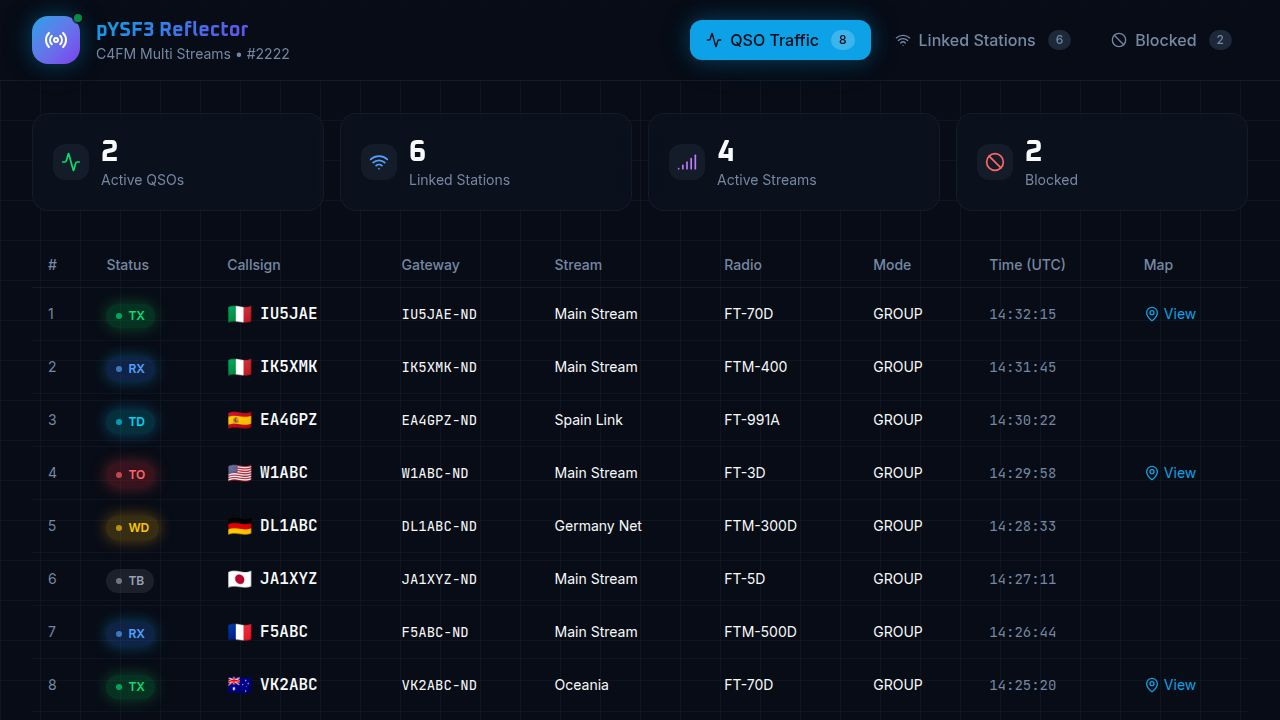
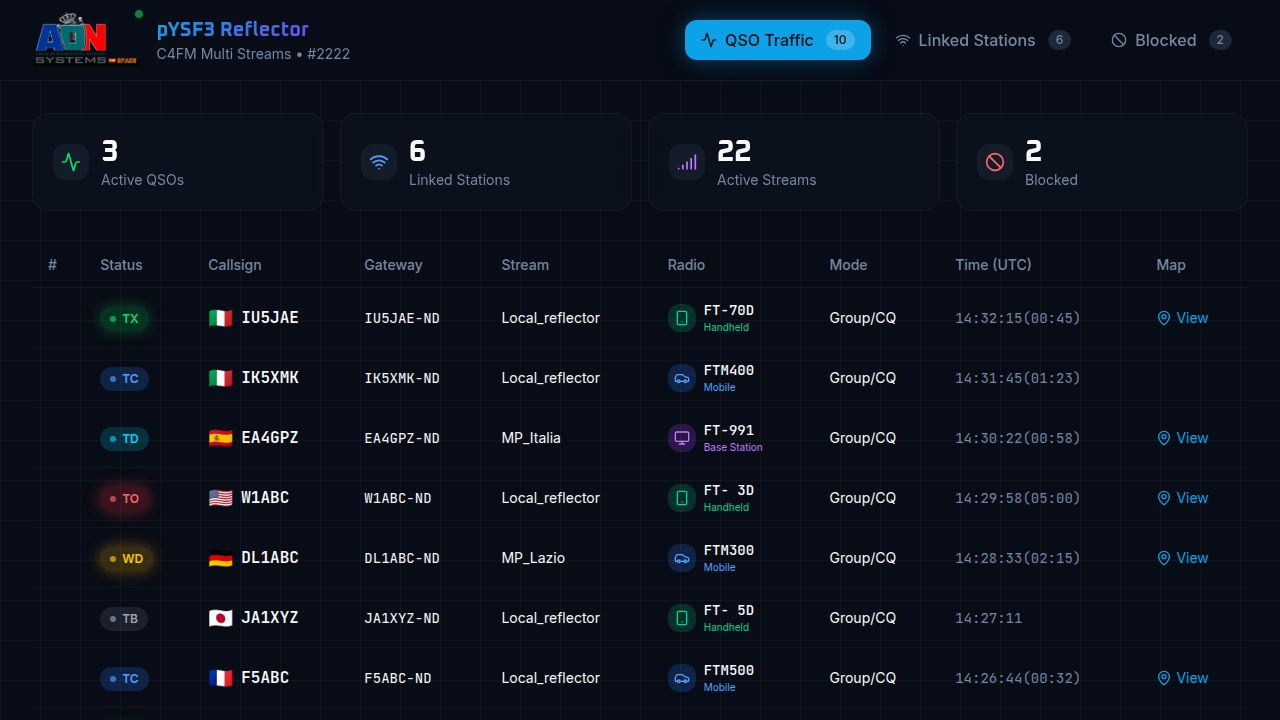
Update dashboard to match collector3.py data schema
Adjusted data interfaces and mock data in dashboard component to align with the schema defined in collector3.py, including changes to QSOStream, LinkedStation, and BlockedStation interfaces, and introducing the ReflectorInfo interface.

Replit-Commit-Author: Agent
Replit-Commit-Session-Id: 849af26a-ff50-427c-92cf-bc35f4036844
Replit-Commit-Checkpoint-Type: full_checkpoint
Replit-Commit-Event-Id: fbf4c4ba-b630-4ef6-a5cf-90117f94cc44
Replit-Commit-Screenshot-Url: https://storage.googleapis.com/screenshot-production-us-central1/cf49157a-a07f-4485-81de-b9e0c3ef7690/849af26a-ff50-427c-92cf-bc35f4036844/AjT17Me
Replit-Helium-Checkpoint-Created: true

diff --git a/client/src/pages/dashboard.tsx b/client/src/pages/dashboard.tsx
@@ -124,101 +124,138 @@ function RadioBadgeCompact({ radioCode }: { radioCode: string }) {
 
 type TabType = 'qso' | 'linked' | 'blocked';
 
+// API Configuration - Change this URL to point to your collector3.py API endpoint
+const API_URL = '/api/dashboard'; // Example: 'http://your-server:5001/api/dashboard'
+const USE_MOCK_DATA = true; // Set to false when connecting to real API
+
+// Interfaces matching collector3.py SQLite schema exactly
 interface QSOStream {
-  id: number;
-  status: 'TX' | 'TO' | 'TD' | 'WD' | 'TB' | 'RX';
-  dgid: string;
-  call: string;
-  gw: string;
-  gid_desc: string;
-  radio_code: string;
-  radio_id: string;
-  target: string;
-  SQC: string;
+  status: 'TX' | 'TC' | 'TO' | 'TD' | 'WD' | 'TB';
   stream_id: string;
-  DT: string;
+  call: string;
+  target: string;
+  gw: string;
+  dgid: string;
+  gid_desc: string;
+  time: string;
+  CS: string;
   CM: string;
   FT: string;
   Dev: string;
-  time: string;
-  latitude?: string;
-  longitude?: string;
+  MR: string;
+  VoIP: string;
+  DT: string;
+  SQL: string;
+  SQC: string;
+  latitude: string;
+  longitude: string;
+  aprs: string;
+  radio_code: string;
+  station_id: string;
+  radio_id: string;
+  dst: string;
+  src: string;
+  uplink: string;
+  downlink: string;
+  downlink_id: string;
+  uplink_id: string;
+  date_time: string;
 }
 
 interface LinkedStation {
-  id: number;
+  linked: string;
   call: string;
-  DGID: string;
   IP: string;
   port: string;
   TC: string;
   CF: string;
   LO: string;
   LK: string;
+  DGID: string;
   T_HOLD: string;
   BTH_DGID: string;
-  BTH_TOUT: number;
-  BTH_TCORR: number;
+  BTH_TOUT: string;
+  BTH_TCORR: string;
 }
 
 interface BlockedStation {
-  id: number;
-  call: string;
   time: string;
+  call: string;
   BR: string;
   TR: string;
 }
 
+interface ReflectorInfo {
+  system: string;
+  ver: string;
+  REF_ID: string;
+  REF_NAME: string;
+  REF_DESC: string;
+  date_time: string;
+  APRS_EN: string;
+  APRS_SSID: string;
+  contact: string;
+  web: string;
+  dgid_loc: string;
+  dgid_def: string;
+  dgid_list: string;
+}
+
+// Mock data matching collector3.py SQLite schema
 const mockQSOData: QSOStream[] = [
-  { id: 1, status: 'TX', dgid: '00', call: 'IU5JAE', gw: 'IU5JAE-ND', gid_desc: 'Main Stream', radio_code: 'FT-70D', radio_id: '12345', target: 'ALL', SQC: '01', stream_id: 'A1B2C3', DT: 'VW', CM: 'GROUP', FT: '1/5', Dev: '2.1', time: '14:32:15', latitude: '43.7696', longitude: '11.2558' },
-  { id: 2, status: 'RX', dgid: '00', call: 'IK5XMK', gw: 'IK5XMK-ND', gid_desc: 'Main Stream', radio_code: 'FTM-400', radio_id: '67890', target: 'ALL', SQC: '02', stream_id: 'D4E5F6', DT: 'VW', CM: 'GROUP', FT: '2/5', Dev: '1.8', time: '14:31:45' },
-  { id: 3, status: 'TD', dgid: '01', call: 'EA4GPZ', gw: 'EA4GPZ-ND', gid_desc: 'Spain Link', radio_code: 'FT-991A', radio_id: '11111', target: 'ALL', SQC: '03', stream_id: 'G7H8I9', DT: 'DN', CM: 'GROUP', FT: '5/5', Dev: '2.4', time: '14:30:22' },
-  { id: 4, status: 'TO', dgid: '00', call: 'W1ABC', gw: 'W1ABC-ND', gid_desc: 'Main Stream', radio_code: 'FT-3D', radio_id: '22222', target: 'ALL', SQC: '04', stream_id: 'J0K1L2', DT: 'VW', CM: 'GROUP', FT: '3/5', Dev: '1.5', time: '14:29:58', latitude: '42.3601', longitude: '-71.0589' },
-  { id: 5, status: 'WD', dgid: '02', call: 'DL1ABC', gw: 'DL1ABC-ND', gid_desc: 'Germany Net', radio_code: 'FTM-300D', radio_id: '33333', target: 'DL', SQC: '05', stream_id: 'M3N4O5', DT: 'VW', CM: 'GROUP', FT: '4/5', Dev: '2.0', time: '14:28:33' },
-  { id: 6, status: 'TB', dgid: '00', call: 'JA1XYZ', gw: 'JA1XYZ-ND', gid_desc: 'Main Stream', radio_code: 'FT-5D', radio_id: '44444', target: 'ALL', SQC: '06', stream_id: 'P6Q7R8', DT: 'DN', CM: 'GROUP', FT: '5/5', Dev: '1.9', time: '14:27:11' },
-  { id: 7, status: 'RX', dgid: '00', call: 'F5ABC', gw: 'F5ABC-ND', gid_desc: 'Main Stream', radio_code: 'FTM-500D', radio_id: '55555', target: 'ALL', SQC: '07', stream_id: 'S9T0U1', DT: 'VW', CM: 'GROUP', FT: '2/5', Dev: '2.2', time: '14:26:44' },
-  { id: 8, status: 'TX', dgid: '03', call: 'VK2ABC', gw: 'VK2ABC-ND', gid_desc: 'Oceania', radio_code: 'FT-70D', radio_id: '66666', target: 'VK', SQC: '08', stream_id: 'V2W3X4', DT: 'VW', CM: 'GROUP', FT: '1/5', Dev: '1.7', time: '14:25:20', latitude: '-33.8688', longitude: '151.2093' },
-  { id: 9, status: 'RX', dgid: '00', call: 'G4ABC', gw: 'G4ABC-ND', gid_desc: 'Main Stream', radio_code: 'BM_2222', radio_id: 'E0C4W', target: 'ALL', SQC: '09', stream_id: 'W5X6Y7', DT: 'VW', CM: 'GROUP', FT: '2/5', Dev: '1.6', time: '14:24:05' },
-  { id: 10, status: 'TX', dgid: '01', call: 'ON4ABC', gw: 'ON4ABC-ND', gid_desc: 'Belgium Net', radio_code: 'FTM-200', radio_id: '77777', target: 'ALL', SQC: '10', stream_id: 'Z8A9B0', DT: 'VW', CM: 'GROUP', FT: '1/5', Dev: '2.3', time: '14:23:18', latitude: '50.8503', longitude: '4.3517' },
+  { status: 'TX', stream_id: 'A1B2C3D4', call: 'IU5JAE', target: 'ALL', gw: 'IU5JAE-ND', dgid: '9', gid_desc: 'Local_reflector', time: '14:32:15(00:45)', CS: 'IU5JAE', CM: 'Group/CQ', FT: 'VW', Dev: 'Wide', MR: '0', VoIP: '0', DT: 'V/D mode 1', SQL: '0', SQC: '01', latitude: '43.769600', longitude: '11.255800', aprs: 'https://aprs.fi/IU5JAE-Y', radio_code: 'FT-70D', station_id: 'ABCDE', radio_id: '12345', dst: '', src: '', uplink: '', downlink: '', downlink_id: '', uplink_id: '', date_time: '2026-01-09 14:32:15' },
+  { status: 'TC', stream_id: 'D4E5F6G7', call: 'IK5XMK', target: 'ALL', gw: 'IK5XMK-ND', dgid: '9', gid_desc: 'Local_reflector', time: '14:31:45(01:23)', CS: 'IK5XMK', CM: 'Group/CQ', FT: 'VW', Dev: 'Wide', MR: '0', VoIP: '0', DT: 'V/D mode 1', SQL: '0', SQC: '02', latitude: '', longitude: '', aprs: 'https://aprs.fi/IK5XMK-Y', radio_code: 'FTM400', station_id: 'FGHIJ', radio_id: '67890', dst: '', src: '', uplink: '', downlink: '', downlink_id: '', uplink_id: '', date_time: '2026-01-09 14:31:45' },
+  { status: 'TD', stream_id: 'G7H8I9J0', call: 'EA4GPZ', target: 'ALL', gw: 'EA4GPZ-ND', dgid: '22', gid_desc: 'MP_Italia', time: '14:30:22(00:58)', CS: 'EA4GPZ', CM: 'Group/CQ', FT: 'DN', Dev: 'Narrow', MR: '0', VoIP: '0', DT: 'Voice FR', SQL: '0', SQC: '03', latitude: '40.416700', longitude: '-3.703790', aprs: 'https://aprs.fi/EA4GPZ-Y', radio_code: 'FT-991', station_id: 'KLMNO', radio_id: '11111', dst: '', src: '', uplink: '', downlink: '', downlink_id: '', uplink_id: '', date_time: '2026-01-09 14:30:22' },
+  { status: 'TO', stream_id: 'J0K1L2M3', call: 'W1ABC', target: 'ALL', gw: 'W1ABC-ND', dgid: '9', gid_desc: 'Local_reflector', time: '14:29:58(05:00)', CS: 'W1ABC', CM: 'Group/CQ', FT: 'VW', Dev: 'Wide', MR: '0', VoIP: '0', DT: 'V/D mode 1', SQL: '0', SQC: '04', latitude: '42.360100', longitude: '-71.05890', aprs: 'https://aprs.fi/W1ABC-Y', radio_code: 'FT- 3D', station_id: 'PQRST', radio_id: '22222', dst: '', src: '', uplink: '', downlink: '', downlink_id: '', uplink_id: '', date_time: '2026-01-09 14:29:58' },
+  { status: 'WD', stream_id: 'M3N4O5P6', call: 'DL1ABC', target: 'DL', gw: 'DL1ABC-ND', dgid: '30', gid_desc: 'MP_Lazio', time: '14:28:33(02:15)', CS: 'DL1ABC', CM: 'Group/CQ', FT: 'VW', Dev: 'Wide', MR: '0', VoIP: '0', DT: 'V/D mode 1', SQL: '0', SQC: '05', latitude: '52.520000', longitude: '13.405000', aprs: 'https://aprs.fi/DL1ABC-Y', radio_code: 'FTM300', station_id: 'UVWXY', radio_id: '33333', dst: '', src: '', uplink: '', downlink: '', downlink_id: '', uplink_id: '', date_time: '2026-01-09 14:28:33' },
+  { status: 'TB', stream_id: 'P6Q7R8S9', call: 'JA1XYZ', target: 'ALL', gw: 'JA1XYZ-ND', dgid: '9', gid_desc: 'Local_reflector', time: '14:27:11', CS: 'JA1XYZ', CM: 'Group/CQ', FT: 'DN', Dev: 'Narrow', MR: '0', VoIP: '0', DT: 'Voice FR', SQL: '0', SQC: '06', latitude: '', longitude: '', aprs: '', radio_code: 'FT- 5D', station_id: 'ZABCD', radio_id: '44444', dst: '', src: '', uplink: '', downlink: '', downlink_id: '', uplink_id: '', date_time: '2026-01-09 14:27:11' },
+  { status: 'TC', stream_id: 'S9T0U1V2', call: 'F5ABC', target: 'ALL', gw: 'F5ABC-ND', dgid: '9', gid_desc: 'Local_reflector', time: '14:26:44(00:32)', CS: 'F5ABC', CM: 'Group/CQ', FT: 'VW', Dev: 'Wide', MR: '0', VoIP: '0', DT: 'V/D mode 1', SQL: '0', SQC: '07', latitude: '48.856600', longitude: '2.3522000', aprs: 'https://aprs.fi/F5ABC-Y', radio_code: 'FTM500', station_id: 'EFGHI', radio_id: '55555', dst: '', src: '', uplink: '', downlink: '', downlink_id: '', uplink_id: '', date_time: '2026-01-09 14:26:44' },
+  { status: 'TX', stream_id: 'V2W3X4Y5', call: 'VK2ABC', target: 'VK', gw: 'VK2ABC-ND', dgid: '40', gid_desc: 'MP_Emilia R.', time: '14:25:20', CS: 'VK2ABC', CM: 'Group/CQ', FT: 'VW', Dev: 'Wide', MR: '0', VoIP: '0', DT: 'V/D mode 1', SQL: '0', SQC: '08', latitude: '-33.86880', longitude: '151.20930', aprs: 'https://aprs.fi/VK2ABC-Y', radio_code: 'FT-70D', station_id: 'JKLMN', radio_id: '66666', dst: '', src: '', uplink: '', downlink: '', downlink_id: '', uplink_id: '', date_time: '2026-01-09 14:25:20' },
+  { status: 'TC', stream_id: 'W5X6Y7Z8', call: 'G4ABC', target: 'ALL', gw: 'G4ABC-ND', dgid: '9', gid_desc: 'Local_reflector', time: '14:24:05(00:28)', CS: 'G4ABC', CM: 'Group/CQ', FT: 'VW', Dev: 'Wide', MR: '0', VoIP: '0', DT: 'V/D mode 1', SQL: '0', SQC: '09', latitude: '51.507400', longitude: '-0.127800', aprs: 'https://aprs.fi/G4ABC-Y', radio_code: 'BM_2222', station_id: 'OPQRS', radio_id: 'E0C4W', dst: '', src: '', uplink: '', downlink: '', downlink_id: '', uplink_id: '', date_time: '2026-01-09 14:24:05' },
+  { status: 'TX', stream_id: 'Z8A9B0C1', call: 'ON4ABC', target: 'ALL', gw: 'ON4ABC-ND', dgid: '41', gid_desc: 'MP_Toscana', time: '14:23:18', CS: 'ON4ABC', CM: 'Group/CQ', FT: 'VW', Dev: 'Wide', MR: '0', VoIP: '0', DT: 'V/D mode 1', SQL: '0', SQC: '10', latitude: '50.850300', longitude: '4.3517000', aprs: 'https://aprs.fi/ON4ABC-Y', radio_code: 'FTM200', station_id: 'TUVWX', radio_id: '77777', dst: '', src: '', uplink: '', downlink: '', downlink_id: '', uplink_id: '', date_time: '2026-01-09 14:23:18' },
 ];
 
 const mockLinkedData: LinkedStation[] = [
-  { id: 1, call: 'IU5JAE-RPT', DGID: '00 (Main)', IP: '192.168.1.100', port: '42000', TC: '58', CF: '2024-01-09 10:00:00', LO: 'N', LK: 'N', T_HOLD: 'IDLE', BTH_DGID: '00', BTH_TOUT: 300, BTH_TCORR: 120 },
-  { id: 2, call: 'IK5XMK-HS', DGID: '00 (Main)', IP: '192.168.1.101', port: '42001', TC: '45', CF: '2024-01-09 09:30:00', LO: 'N', LK: 'N', T_HOLD: 'IDLE', BTH_DGID: '00', BTH_TOUT: 300, BTH_TCORR: 200 },
-  { id: 3, call: 'EA4GPZ-BR', DGID: '01 (Spain)', IP: '10.0.0.50', port: '42002', TC: '60', CF: '2024-01-09 08:15:00', LO: 'N', LK: 'Y', T_HOLD: 'ACTIVE', BTH_DGID: '01', BTH_TOUT: 600, BTH_TCORR: 450 },
-  { id: 4, call: 'W1ABC-HS', DGID: '00 (Main)', IP: '172.16.0.25', port: '42003', TC: '32', CF: '2024-01-09 07:45:00', LO: 'Y', LK: 'N', T_HOLD: 'IDLE', BTH_DGID: '00', BTH_TOUT: 300, BTH_TCORR: 280 },
-  { id: 5, call: 'DL1ABC-RPT', DGID: '02 (Germany)', IP: '192.168.2.100', port: '42004', TC: '55', CF: '2024-01-09 06:00:00', LO: 'N', LK: 'N', T_HOLD: 'TX', BTH_DGID: '02', BTH_TOUT: 450, BTH_TCORR: 100 },
-  { id: 6, call: 'VK2ABC-HS', DGID: '03 (Oceania)', IP: '10.10.10.10', port: '42005', TC: '28', CF: '2024-01-09 05:30:00', LO: 'N', LK: 'N', T_HOLD: 'IDLE', BTH_DGID: '03', BTH_TOUT: 300, BTH_TCORR: 290 },
+  { linked: '1', call: 'IU5JAE-RPT', IP: '192.168.1.***', port: '42000', TC: '58', CF: '1', LO: 'N', LK: 'N', DGID: '9', T_HOLD: 'IDLE', BTH_DGID: '9', BTH_TOUT: '300', BTH_TCORR: '120' },
+  { linked: '1', call: 'IK5XMK-HS', IP: '192.168.1.***', port: '42001', TC: '45', CF: '1', LO: 'N', LK: 'N', DGID: '9', T_HOLD: 'IDLE', BTH_DGID: '9', BTH_TOUT: '300', BTH_TCORR: '200' },
+  { linked: '1', call: 'EA4GPZ-BR', IP: '10.0.0.***', port: '42002', TC: '60', CF: '1', LO: 'N', LK: 'Y', DGID: '22', T_HOLD: 'ACTIVE', BTH_DGID: '22', BTH_TOUT: '600', BTH_TCORR: '450' },
+  { linked: '1', call: 'W1ABC-HS', IP: '172.16.0.***', port: '42003', TC: '32', CF: '1', LO: 'Y', LK: 'N', DGID: '9', T_HOLD: 'IDLE', BTH_DGID: '9', BTH_TOUT: '300', BTH_TCORR: '280' },
+  { linked: '1', call: 'DL1ABC-RPT', IP: '192.168.2.***', port: '42004', TC: '55', CF: '1', LO: 'N', LK: 'N', DGID: '30', T_HOLD: 'TX', BTH_DGID: '30', BTH_TOUT: '450', BTH_TCORR: '100' },
+  { linked: '1', call: 'VK2ABC-HS', IP: '10.10.10.***', port: '42005', TC: '28', CF: '1', LO: 'N', LK: 'N', DGID: '40', T_HOLD: 'IDLE', BTH_DGID: '40', BTH_TOUT: '300', BTH_TCORR: '290' },
 ];
 
 const mockBlockedData: BlockedStation[] = [
-  { id: 1, call: 'XX1TST', time: '2024-01-08 15:30:00', BR: 'Spam transmission', TR: '2024-01-09 15:30:00' },
-  { id: 2, call: 'YY2BAD', time: '2024-01-07 12:00:00', BR: 'Invalid callsign', TR: '2024-01-08 12:00:00' },
+  { call: 'XX1TST', time: '2026-01-08 15:30:00', BR: 'CS', TR: 'Invalid suffix' },
+  { call: 'YY2BAD', time: '2026-01-07 12:00:00', BR: 'CS', TR: 'Invalid callsign format' },
 ];
 
-const reflectorInfo = {
-  REF_ID: '2222',
+const mockReflectorInfo: ReflectorInfo = {
+  system: 'pYSF3',
   ver: '3.2.1',
-  REF_DESC: 'Gruppo Radio Firenze C4FM Reflector',
-  APRS_EN: 'Yes',
-  dgid_list: '00,01,02,03',
-  dgid_def: '00',
-  dgid_loc: '00',
-  web: 'www.grupporadiofirenze.net',
-  contact: 'info@grupporadiofirenze.net'
+  REF_ID: '2222',
+  REF_NAME: 'ADN-SPAIN',
+  REF_DESC: 'ADN Systems Spain C4FM Reflector',
+  date_time: '2026-01-09 08:00:00',
+  APRS_EN: '1',
+  APRS_SSID: '-Y',
+  contact: 'info@adnsystems.es',
+  web: 'www.adnsystems.es',
+  dgid_loc: '9',
+  dgid_def: '9',
+  dgid_list: '9,22,30,31,32,33,34,35,36,37,38,39,40,41,42,43,44,45,46,47,48,49'
 };
 
 function StatusBadge({ status }: { status: string }) {
   const statusConfig: Record<string, { bg: string; text: string; glow: string; label: string }> = {
     TX: { bg: 'bg-green-500/20', text: 'text-green-400', glow: 'glow-success', label: 'Transmitting' },
-    RX: { bg: 'bg-blue-500/20', text: 'text-blue-400', glow: 'glow-info', label: 'Receiving' },
+    TC: { bg: 'bg-blue-500/20', text: 'text-blue-400', glow: '', label: 'Completed' },
     TO: { bg: 'bg-red-500/20', text: 'text-red-400', glow: 'glow-destructive', label: 'Timeout' },
-    TD: { bg: 'bg-cyan-500/20', text: 'text-cyan-400', glow: 'glow-info', label: 'Term Data' },
+    TD: { bg: 'bg-cyan-500/20', text: 'text-cyan-400', glow: '', label: 'DGID Change' },
     WD: { bg: 'bg-yellow-500/20', text: 'text-yellow-400', glow: 'glow-warning', label: 'Watchdog' },
     TB: { bg: 'bg-gray-500/20', text: 'text-gray-400', glow: '', label: 'Blocked' },
   };
 
-  const config = statusConfig[status] || statusConfig.RX;
+  const config = statusConfig[status] || statusConfig.TC;
 
   return (
     <span className={`inline-flex items-center gap-1.5 px-2.5 py-1 rounded-full text-xs font-semibold ${config.bg} ${config.text} ${config.glow}`}>
@@ -268,7 +305,7 @@ function MobileCard({ stream }: { stream: QSOStream }) {
       <button
         onClick={() => setExpanded(!expanded)}
         className="flex items-center gap-1 text-sm text-primary hover:text-primary/80 transition-colors"
-        data-testid={`expand-qso-${stream.id}`}
+        data-testid={`expand-qso-${stream.stream_id}`}
       >
         {expanded ? 'Less details' : 'More details'}
         <ChevronDown className={`w-4 h-4 transition-transform ${expanded ? 'rotate-180' : ''}`} />
@@ -301,7 +338,7 @@ function MobileCard({ stream }: { stream: QSOStream }) {
                 target="_blank"
                 rel="noopener noreferrer"
                 className="flex items-center gap-2 mt-3 text-sm text-primary hover:underline"
-                data-testid={`map-link-${stream.id}`}
+                data-testid={`map-link-${stream.stream_id}`}
               >
                 <MapPin className="w-4 h-4" />
                 View on map
@@ -317,7 +354,7 @@ function MobileCard({ stream }: { stream: QSOStream }) {
 
 function LinkedCard({ station }: { station: LinkedStation }) {
   const [expanded, setExpanded] = useState(false);
-  const missing = station.BTH_TOUT - station.BTH_TCORR;
+  const missing = parseInt(station.BTH_TOUT) - parseInt(station.BTH_TCORR);
   
   return (
     <motion.div
@@ -350,7 +387,7 @@ function LinkedCard({ station }: { station: LinkedStation }) {
       <button
         onClick={() => setExpanded(!expanded)}
         className="flex items-center gap-1 text-sm text-primary hover:text-primary/80 transition-colors"
-        data-testid={`expand-linked-${station.id}`}
+        data-testid={`expand-linked-${station.call}`}
       >
         {expanded ? 'Less details' : 'More details'}
         <ChevronDown className={`w-4 h-4 transition-transform ${expanded ? 'rotate-180' : ''}`} />
@@ -438,7 +475,7 @@ export default function Dashboard() {
                   pYSF3 Reflector
                 </h1>
                 <p className="text-xs sm:text-sm text-muted-foreground">
-                  C4FM Multi Streams • #{reflectorInfo.REF_ID}
+                  C4FM Multi Streams • #{mockReflectorInfo.REF_ID}
                 </p>
               </div>
             </div>
@@ -519,7 +556,7 @@ export default function Dashboard() {
           {[
             { label: 'Active QSOs', value: mockQSOData.filter(s => s.status === 'TX').length, icon: Activity, color: 'text-green-400' },
             { label: 'Linked Stations', value: mockLinkedData.length, icon: Wifi, color: 'text-blue-400' },
-            { label: 'Active Streams', value: reflectorInfo.dgid_list.split(',').length, icon: Signal, color: 'text-purple-400' },
+            { label: 'Active Streams', value: mockReflectorInfo.dgid_list.split(',').length, icon: Signal, color: 'text-purple-400' },
             { label: 'Blocked', value: mockBlockedData.length, icon: Ban, color: 'text-red-400' },
           ].map((stat, i) => (
             <motion.div
@@ -568,14 +605,14 @@ export default function Dashboard() {
                   <tbody>
                     {mockQSOData.map((stream, index) => (
                       <motion.tr
-                        key={stream.id}
+                        key={stream.stream_id}
                         initial={{ opacity: 0, y: 10 }}
                         animate={{ opacity: 1, y: 0 }}
                         transition={{ delay: index * 0.05 }}
                         className="border-b border-border/30 hover:bg-muted/30 transition-colors"
-                        data-testid={`qso-row-${stream.id}`}
+                        data-testid={`qso-row-${stream.stream_id}`}
                       >
-                        <td className="py-3 px-4 text-sm text-muted-foreground">{stream.id}</td>
+                        <td className="py-3 px-4 text-sm text-muted-foreground">{index + 1}</td>
                         <td className="py-3 px-4">
                           <StatusBadge status={stream.status} />
                         </td>
@@ -596,7 +633,7 @@ export default function Dashboard() {
                               target="_blank"
                               rel="noopener noreferrer"
                               className="flex items-center gap-1 text-primary hover:underline text-sm"
-                              data-testid={`map-btn-${stream.id}`}
+                              data-testid={`map-btn-${stream.stream_id}`}
                             >
                               <MapPin className="w-4 h-4" />
                               <span className="hidden xl:inline">View</span>
@@ -611,7 +648,7 @@ export default function Dashboard() {
 
               <div className="lg:hidden space-y-3">
                 {mockQSOData.map((stream) => (
-                  <MobileCard key={stream.id} stream={stream} />
+                  <MobileCard key={stream.stream_id} stream={stream} />
                 ))}
               </div>
             </motion.div>
@@ -641,14 +678,14 @@ export default function Dashboard() {
                   <tbody>
                     {mockLinkedData.map((station, index) => (
                       <motion.tr
-                        key={station.id}
+                        key={station.call}
                         initial={{ opacity: 0, y: 10 }}
                         animate={{ opacity: 1, y: 0 }}
                         transition={{ delay: index * 0.05 }}
                         className="border-b border-border/30 hover:bg-muted/30 transition-colors"
-                        data-testid={`linked-row-${station.id}`}
+                        data-testid={`linked-row-${station.call}`}
                       >
-                        <td className="py-3 px-4 text-sm text-muted-foreground">{station.id}</td>
+                        <td className="py-3 px-4 text-sm text-muted-foreground">{index + 1}</td>
                         <td className="py-3 px-4">
                           <CallsignWithFlag callsign={station.call.split('-')[0]} />
                         </td>
@@ -674,7 +711,7 @@ export default function Dashboard() {
 
               <div className="lg:hidden space-y-3">
                 {mockLinkedData.map((station) => (
-                  <LinkedCard key={station.id} station={station} />
+                  <LinkedCard key={station.call} station={station} />
                 ))}
               </div>
             </motion.div>
@@ -701,14 +738,14 @@ export default function Dashboard() {
                   <tbody>
                     {mockBlockedData.map((station, index) => (
                       <motion.tr
-                        key={station.id}
+                        key={station.call}
                         initial={{ opacity: 0, y: 10 }}
                         animate={{ opacity: 1, y: 0 }}
                         transition={{ delay: index * 0.05 }}
                         className="border-b border-border/30 hover:bg-muted/30 transition-colors"
-                        data-testid={`blocked-row-${station.id}`}
+                        data-testid={`blocked-row-${station.call}`}
                       >
-                        <td className="py-3 px-4 text-sm text-muted-foreground">{station.id}</td>
+                        <td className="py-3 px-4 text-sm text-muted-foreground">{index + 1}</td>
                         <td className="py-3 px-4">
                           <CallsignWithFlag callsign={station.call} />
                         </td>
@@ -723,7 +760,7 @@ export default function Dashboard() {
 
               <div className="lg:hidden space-y-3">
                 {mockBlockedData.map((station) => (
-                  <BlockedCard key={station.id} station={station} />
+                  <BlockedCard key={station.call} station={station} />
                 ))}
               </div>
             </motion.div>
@@ -736,20 +773,20 @@ export default function Dashboard() {
           <div className="flex flex-col sm:flex-row items-center justify-between gap-4">
             <div className="text-center sm:text-left">
               <p className="text-sm text-muted-foreground">
-                <span className="font-semibold text-foreground">Reflector:</span> #{reflectorInfo.REF_ID} •
-                <span className="font-semibold text-foreground ml-2">Ver:</span> {reflectorInfo.ver} •
-                <span className="font-semibold text-foreground ml-2">APRS:</span> {reflectorInfo.APRS_EN}
+                <span className="font-semibold text-foreground">Reflector:</span> #{mockReflectorInfo.REF_ID} •
+                <span className="font-semibold text-foreground ml-2">Ver:</span> {mockReflectorInfo.ver} •
+                <span className="font-semibold text-foreground ml-2">APRS:</span> {mockReflectorInfo.APRS_EN}
               </p>
               <p className="text-sm text-muted-foreground mt-1">
-                <span className="font-semibold text-foreground">Streams:</span> {reflectorInfo.dgid_list} •
-                <span className="font-semibold text-foreground ml-2">Default:</span> {reflectorInfo.dgid_def}
+                <span className="font-semibold text-foreground">Streams:</span> {mockReflectorInfo.dgid_list} •
+                <span className="font-semibold text-foreground ml-2">Default:</span> {mockReflectorInfo.dgid_def}
               </p>
-              <p className="text-xs text-muted-foreground mt-2">{reflectorInfo.REF_DESC}</p>
+              <p className="text-xs text-muted-foreground mt-2">{mockReflectorInfo.REF_DESC}</p>
             </div>
             
             <div className="flex items-center gap-3">
               <a
-                href={`http://${reflectorInfo.web}`}
+                href={`http://${mockReflectorInfo.web}`}
                 target="_blank"
                 rel="noopener noreferrer"
                 className="flex items-center gap-2 px-4 py-2 bg-primary text-primary-foreground rounded-lg hover:bg-primary/90 transition-colors text-sm font-medium"
@@ -759,7 +796,7 @@ export default function Dashboard() {
                 Website
               </a>
               <a
-                href={`mailto:${reflectorInfo.contact}`}
+                href={`mailto:${mockReflectorInfo.contact}`}
                 className="flex items-center gap-2 px-4 py-2 bg-muted text-foreground rounded-lg hover:bg-muted/80 transition-colors text-sm font-medium"
                 data-testid="email-link"
               >
